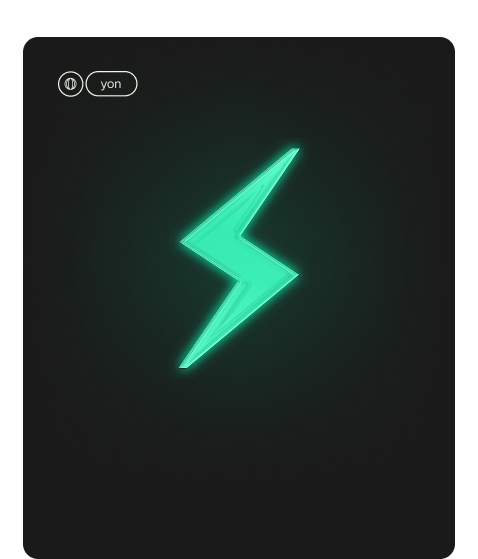
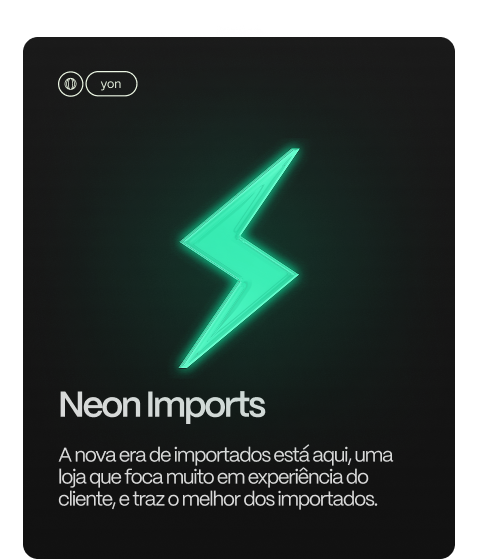
Replace Neon Imports Yon card with supplied image

Changed region(s): [[0.1172, 0.7907, 0.8201, 0.9123], [0.1172, 0.6995, 0.5565, 0.7603]]

diff --git a/yon.html b/yon.html
@@ -20,7 +20,7 @@
 <article class="ilu-slide"><img src="assets/y2.png" width="432" height="522" alt="MrFone — case Yon"></article>
 <article class="ilu-slide"><img src="assets/y3.png" width="432" height="522" alt="MrEssence — case Yon"></article>
 <article class="ilu-slide"><img src="assets/y4.png" width="432" height="522" alt="CAE Club — case Yon"></article>
-<article class="ilu-slide"><img src="assets/y5-card.png" width="432" height="522" alt="Neon Imports — case Yon"></article>
+<article class="ilu-slide"><img src="assets/y5.png?v=20261123" width="432" height="522" alt="Neon Imports — case Yon"></article>
 <article class="ilu-slide"><img src="assets/y6.png" width="432" height="522" alt="vlNathalia — case Yon"></article></div>
 <div class="logo-carousel yon-logos" aria-label="Marcas de clientes"><div class="logo-track"><img src="assets/logos-completos.png" alt="Marcas de clientes Yelloz" width="2192" height="70"><img src="assets/logos-completos.png" alt="" aria-hidden="true" width="2192" height="70"></div></div>
 </section><section class="contact-section" id="diagnostico" aria-labelledby="contact-heading">
